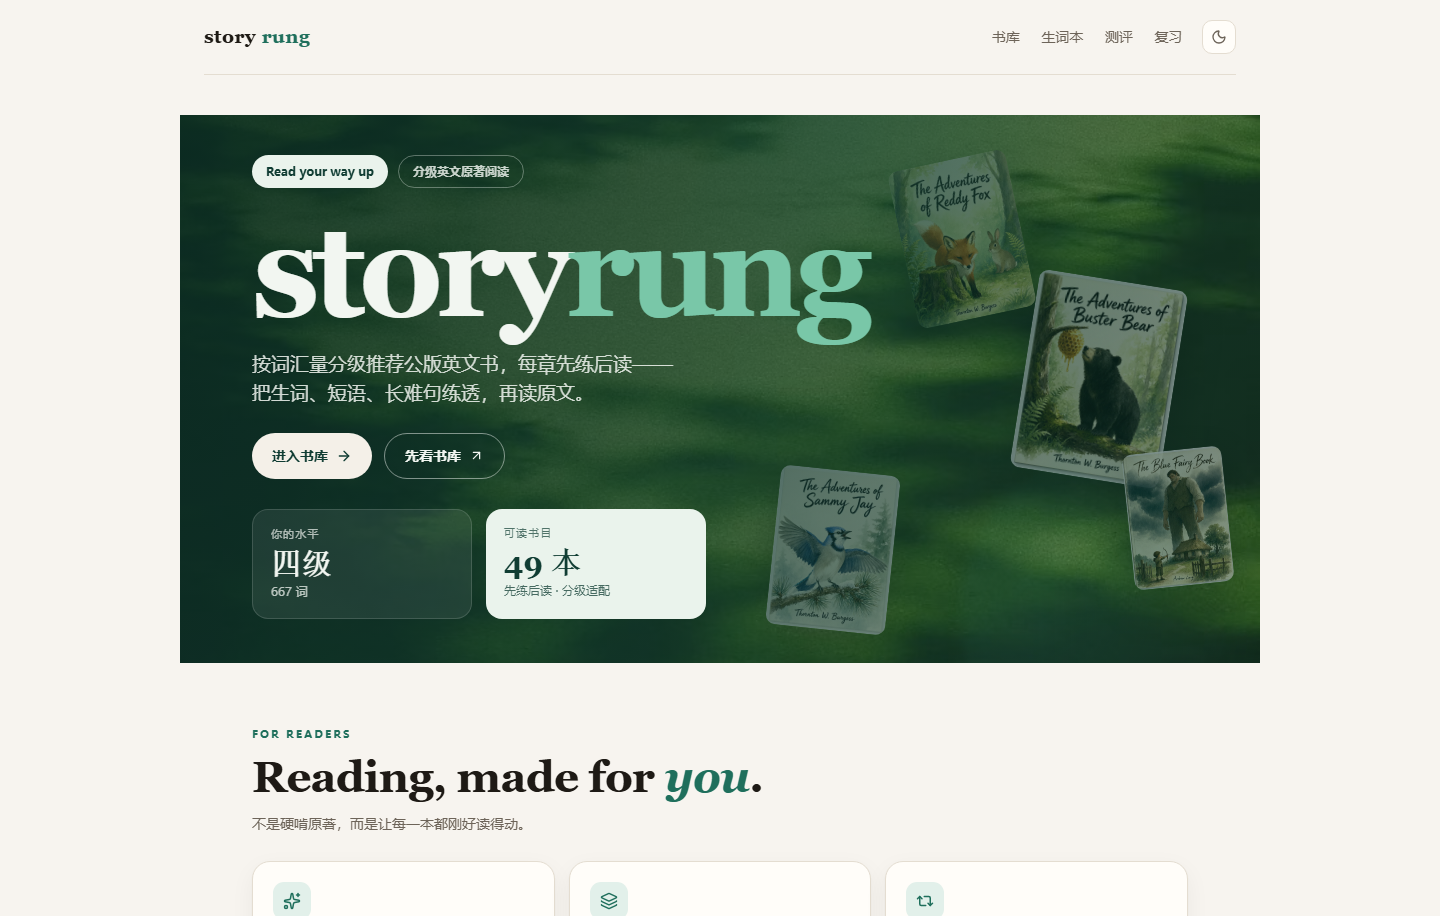
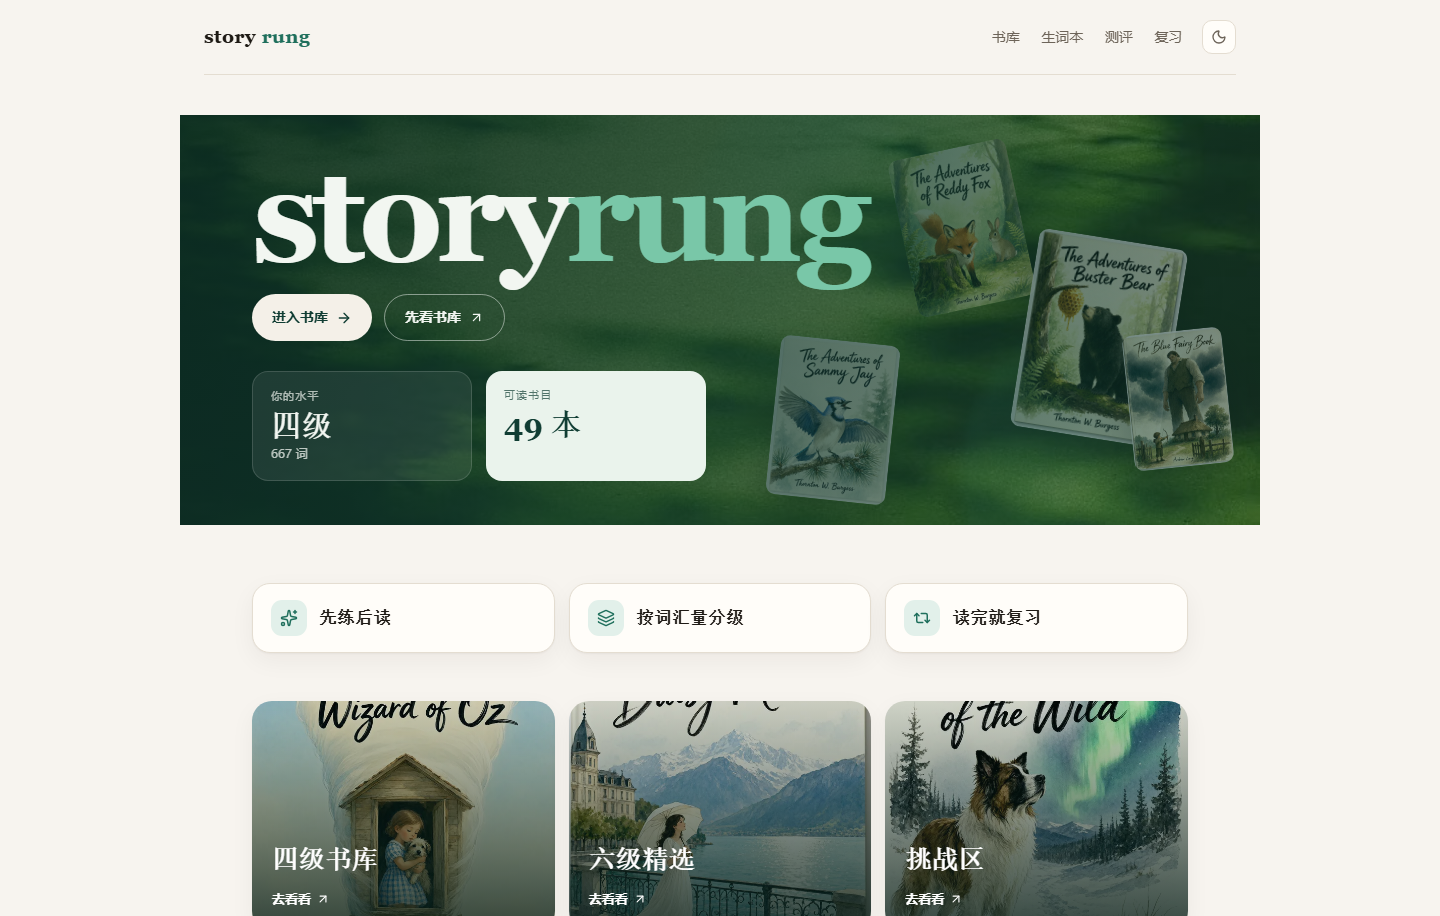
refactor(web): 删掉首页与测评页的说明性文案
只保留功能性文字（标题、标签、数字、按钮），删掉解释和推销句：

- hero：两枚 pill、"按词汇量分级推荐公版英文书…"整段、卡片里的"先练后读 · 分级适配"
- 卖点区：FOR READERS / Reading, made for you. / 三张卡的说明段
- 分类卡：01 入门 / 02 进阶 / 03 挑战 与覆盖率描述
- 最近上新：JUST ADDED
- 收藏区：CURATED SHELF 与"从童书到经典，按难度排好的室内阅读书架。"
- 大幅引导区：HOW IT WORKS / Quality reading, curated for you. / 五步说明
- 社区区：Join the community! 与正文
- 整段删除 Good to know FAQ（含 FAQS 常量和未用的图标导入）
- 测评 intro：删掉"答完还可以继续加答，答得越多，估得越准。"

卖点卡因为只剩图标 + 标题，改成横排紧凑卡片（flex + 36px 图标 + 17px 标题），
不再上重下空。docs/screenshots 首页截图同步更新。

diff --git a/apps/web/app/page.tsx b/apps/web/app/page.tsx
@@ -1,5 +1,5 @@
 import Link from "next/link";
-import { ArrowRight, ArrowUpRight, ChevronDown, Sparkles, BookOpen, Layers3, Repeat2, Play, Mail } from "lucide-react";
+import { ArrowRight, ArrowUpRight, Sparkles, BookOpen, Layers3, Repeat2, Mail } from "lucide-react";
 
 import HeroArt from "@/components/HeroArt";
 import ShelfCarousel from "@/components/ShelfCarousel";
@@ -13,26 +13,6 @@ import { effectiveVocabSize, getDemoUser, getKnownSet } from "@/lib/services/use
 export const dynamic = "force-dynamic";
 
 const LEVEL_LABEL: Record<string, string> = { cet4: "四级", cet6: "六级", toefl: "托福" };
-
-// 参考图里的 FAQ 折叠项，内容换成产品相关
-const FAQS = [
-  {
-    q: "什么是「先练后读」？",
-    a: "每一章在读原文之前，先把这一章里你不认识的词、短语和长难句挑出来练一遍，达标后再读正文；读完生词会自动回流到复习队列。这样读原著不再被生词打断。",
-  },
-  {
-    q: "词汇量是怎么测的？",
-    a: "六个词频段、每段四道「看词选义」题，扣掉蒙对的概率后估算你的词汇量，并据此把你分到四级或六级档。测评只需两三分钟。",
-  },
-  {
-    q: "书会按我的水平推荐吗？",
-    a: "会。书库按「你这一个人」的实测覆盖率显示预计生词数，过不了舒适区的书会单独放进挑战区，不会混进推荐里。",
-  },
-  {
-    q: "生词和复习怎么安排？",
-    a: "点词即可查义并自动标记为不认识；预习通关时把弱词入队，之后按遗忘曲线用四档评分安排复习。",
-  },
-];
 
 export default async function HomePage() {
   const user = await getDemoUser();
@@ -69,18 +49,9 @@ export default async function HomePage() {
           <div className="lp-hero-leaf lp-hero-leaf-b" />
         </div>
         <div className="lp-hero-inner">
-          <div className="lp-topline">
-            <span className="lp-pill">Read your way up</span>
-            <span className="lp-pill lp-pill-ghost">分级英文原著阅读</span>
-          </div>
           <h1 className="lp-wordmark">
             story<span>rung</span>
           </h1>
-          <p className="lp-hero-desc">
-            按词汇量分级推荐公版英文书，每章先练后读——
-            <br className="lp-desk-br" />
-            把生词、短语、长难句练透，再读原文。
-          </p>
           <div className="lp-hero-actions">
             <Link href={hasLevel ? "/library" : "/level-test"} className="lp-btn lp-btn-light">
               {hasLevel ? "进入书库" : "测词汇量"} <ArrowRight size={16} />
@@ -101,34 +72,25 @@ export default async function HomePage() {
             <div className="lp-hero-card lp-hero-card-light">
               <span className="lp-hero-card-label">可读书目</span>
               <strong>{bookCount} 本</strong>
-              <span className="lp-hero-card-sub">先练后读 · 分级适配</span>
             </div>
           </div>
         </div>
       </section>
 
-      {/* ===== 三个小的卖点卡（Restorative / Purification / Pet Friendly 的位置） ===== */}
+      {/* ===== 三个卖点卡：只留标题 ===== */}
       <section className="lp-strip">
-        <div className="lp-section-head lp-strip-head">
-          <span className="lp-eyebrow">FOR READERS</span>
-          <h2 className="lp-h2">Reading, made for <em>you</em>.</h2>
-          <p className="lp-sub">不是硬啃原著，而是让每一本都刚好读得动。</p>
-        </div>
         <div className="lp-feature-row">
           <article className="lp-feature">
             <span className="lp-feature-ico"><Sparkles size={18} /></span>
             <h3>先练后读</h3>
-            <p>生词、短语、长难句先过关，再进正文。</p>
           </article>
           <article className="lp-feature">
             <span className="lp-feature-ico"><Layers3 size={18} /></span>
             <h3>按词汇量分级</h3>
-            <p>四六级自选，覆盖率算给你看。</p>
           </article>
           <article className="lp-feature">
             <span className="lp-feature-ico"><Repeat2 size={18} /></span>
             <h3>读完就复习</h3>
-            <p>弱词自动入队，按遗忘曲线排期。</p>
           </article>
         </div>
       </section>
@@ -141,9 +103,7 @@ export default async function HomePage() {
             <img src={coverUrl("the-wonderful-wizard-of-oz")!} alt="" />
           )}
           <div className="lp-cat-body">
-            <span className="lp-cat-kicker">01 · 入门</span>
             <h3>四级书库</h3>
-            <p>覆盖率 ≥94%，适合 4500 词左右，读得顺。</p>
             <span className="lp-cat-link">去看看 <ArrowUpRight size={14} /></span>
           </div>
         </Link>
@@ -151,9 +111,7 @@ export default async function HomePage() {
           {/* eslint-disable-next-line @next/next/no-img-element */}
           {coverUrl("daisy-miller") && <img src={coverUrl("daisy-miller")!} alt="" />}
           <div className="lp-cat-body">
-            <span className="lp-cat-kicker">02 · 进阶</span>
             <h3>六级精选</h3>
-            <p>覆盖率 ≥96.5%，句子更地道，挑战更大。</p>
             <span className="lp-cat-link">去看看 <ArrowUpRight size={14} /></span>
           </div>
         </Link>
@@ -161,9 +119,7 @@ export default async function HomePage() {
           {/* eslint-disable-next-line @next/next/no-img-element */}
           {coverUrl("the-call-of-the-wild") && <img src={coverUrl("the-call-of-the-wild")!} alt="" />}
           <div className="lp-cat-body">
-            <span className="lp-cat-kicker">03 · 挑战</span>
             <h3>挑战区</h3>
-            <p>能读但会卡，先预习再上，稳步够到下一档。</p>
             <span className="lp-cat-link">去看看 <ArrowUpRight size={14} /></span>
           </div>
         </Link>
@@ -173,7 +129,6 @@ export default async function HomePage() {
       <section className="lp-new">
         <div className="lp-section-head lp-new-head">
           <div>
-            <span className="lp-eyebrow">JUST ADDED</span>
             <h2 className="lp-h2">最近上新</h2>
           </div>
           <Link href="/library" className="lp-viewall">查看全部 <ArrowUpRight size={14} /></Link>
@@ -202,9 +157,7 @@ export default async function HomePage() {
       {/* ===== 大标题 + 网格（Indoor Collection 的位置） ===== */}
       <section className="lp-collection">
         <div className="lp-collection-head">
-          <span className="lp-eyebrow">CURATED SHELF</span>
           <h2 className="lp-collection-title">Indoor <em>Collection</em></h2>
-          <p className="lp-sub lp-collection-sub">从童书到经典，按难度排好的室内阅读书架。</p>
         </div>
         <div className="lp-collage">
           {displayBooks.slice(3, 7).map((book) => {
@@ -255,39 +208,20 @@ export default async function HomePage() {
         <div><div className="stat-value">{finished}</div><div className="muted tiny">读完章节</div></div>
       </div>
 
-      {/* ===== 视频/大幅引导区（Quality Plants & Curated Goods 的位置） ===== */}
+      {/* ===== 大幅引导区（只保留画面） ===== */}
       <section className="lp-feature-banner">
-        <span className="lp-eyebrow">HOW IT WORKS</span>
-        <h2 className="lp-h2">Quality reading,<br /><em>curated for you.</em></h2>
-        <p className="lp-sub">测词汇量 → 选书 → 章前预习 → 读正文 → 复习巩固，五步把一本英文原著真正读下来。</p>
         <div className="lp-video">
           {/* eslint-disable-next-line @next/next/no-img-element */}
           {coverUrl("the-princess-and-the-goblin") && (
             <img src={coverUrl("the-princess-and-the-goblin")!} alt="" />
           )}
-          <span className="lp-play"><Play size={22} fill="currentColor" /></span>
         </div>
       </section>
 
-      {/* ===== FAQ 折叠 ===== */}
-      <section className="lp-faq">
-        <h2 className="lp-faq-title">Good to know</h2>
-        <div className="lp-faq-list">
-          {FAQS.map((item) => (
-            <details key={item.q} className="lp-faq-item">
-              <summary>{item.q}<ChevronDown size={18} /></summary>
-              <p>{item.a}</p>
-            </details>
-          ))}
-        </div>
-      </section>
-
-      {/* ===== 社区 footer ===== */}
+      {/* ===== 底部 CTA ===== */}
       <section className="lp-community">
         <div className="lp-community-inner">
           <span className="lp-community-mark"><BookOpen size={22} /></span>
-          <h2>Join the community!</h2>
-          <p>一起把英文原著读下来——你的进度、生词和复习，都在这里。</p>
           <div className="lp-community-actions">
             <Link href="/level-test" className="lp-btn lp-btn-light">测我的词汇量 <ArrowRight size={15} /></Link>
             <Link href="/library" className="lp-btn lp-btn-ghost">逛书库 <ArrowUpRight size={14} /></Link>

diff --git a/apps/web/app/theme.css b/apps/web/app/theme.css
@@ -1329,24 +1329,27 @@ body {
   gap: 14px;
 }
 .lp-feature {
+  display: flex;
+  align-items: center;
+  gap: 12px;
   background: var(--surface);
   border: 1px solid var(--line);
   border-radius: 18px;
-  padding: 20px;
+  padding: 16px 18px;
   box-shadow: var(--shadow);
 }
 .lp-feature-ico {
   display: inline-flex;
   align-items: center;
   justify-content: center;
-  width: 38px;
-  height: 38px;
+  flex: 0 0 auto;
+  width: 36px;
+  height: 36px;
   border-radius: 11px;
   background: var(--accent-soft);
   color: var(--accent);
-  margin-bottom: 12px;
 }
-.lp-feature h3 { font-family: var(--serif); font-size: 19px; margin: 0 0 6px; }
+.lp-feature h3 { font-family: var(--serif); font-size: 17px; margin: 0; line-height: 1.3; }
 .lp-feature p { color: var(--muted); font-size: 13px; line-height: 1.55; margin: 0; }
 
 /* ---------- 三张大分类卡 ---------- */

diff --git a/apps/web/components/level/LevelTest.tsx b/apps/web/components/level/LevelTest.tsx
@@ -154,9 +154,6 @@ export default function LevelTest({ items: initialItems }: { items: Item[] }) {
         <p className="muted small" style={{ marginTop: 0 }}>
           看词选义 · 先答 {Math.min(INITIAL_SIZE, items.length)} 题
         </p>
-        <p className="muted small" style={{ marginTop: 0 }}>
-          答完还可以继续加答，答得越多，估得越准。
-        </p>
         <div className="row" style={{ marginTop: "auto" }}>
           <button type="button" className="btn primary" onClick={() => setStage("quiz")}>
             开始测评 →
